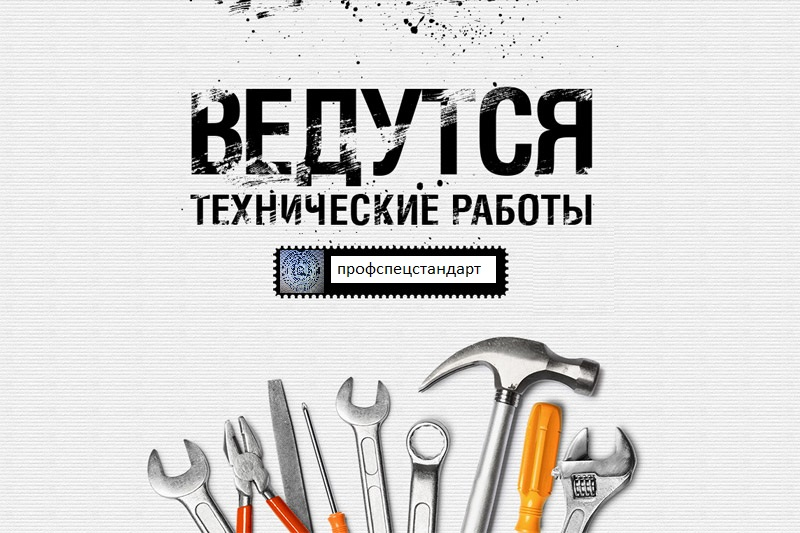
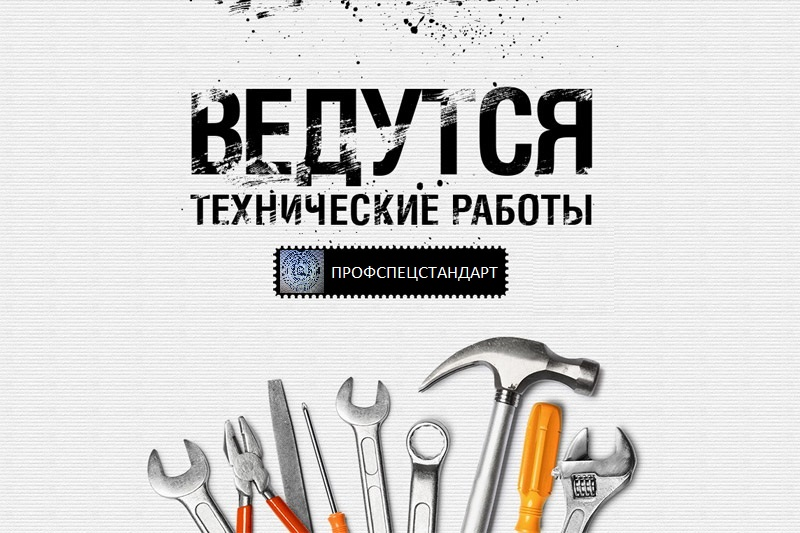
fix styles with maint

Changed region(s): [[0.4062, 0.4803, 0.625, 0.5403]]

diff --git a/src/main/resources/templates/maintenance.html b/src/main/resources/templates/maintenance.html
@@ -8,6 +8,6 @@
     <title>Title</title>
 </head>
 <body>
-<a href="" class="logo"><img src="../static/images/tech.jpg" th:src="@{/images/tech.jpg}"/></a>
+<a href="" class="maint"><img src="../static/images/tech.jpg" th:src="@{/images/tech.jpg}"/></a>
 </body>
 </html>

diff --git a/src/main/resources/static/css/style.css b/src/main/resources/static/css/style.css
@@ -8,6 +8,12 @@ body {
     margin: 0;
 }
 
+.maint {
+    display: flex;
+    align-items: center;
+    justify-content: center;
+}
+
 header {
     position: absolute;
     height: 50px;
